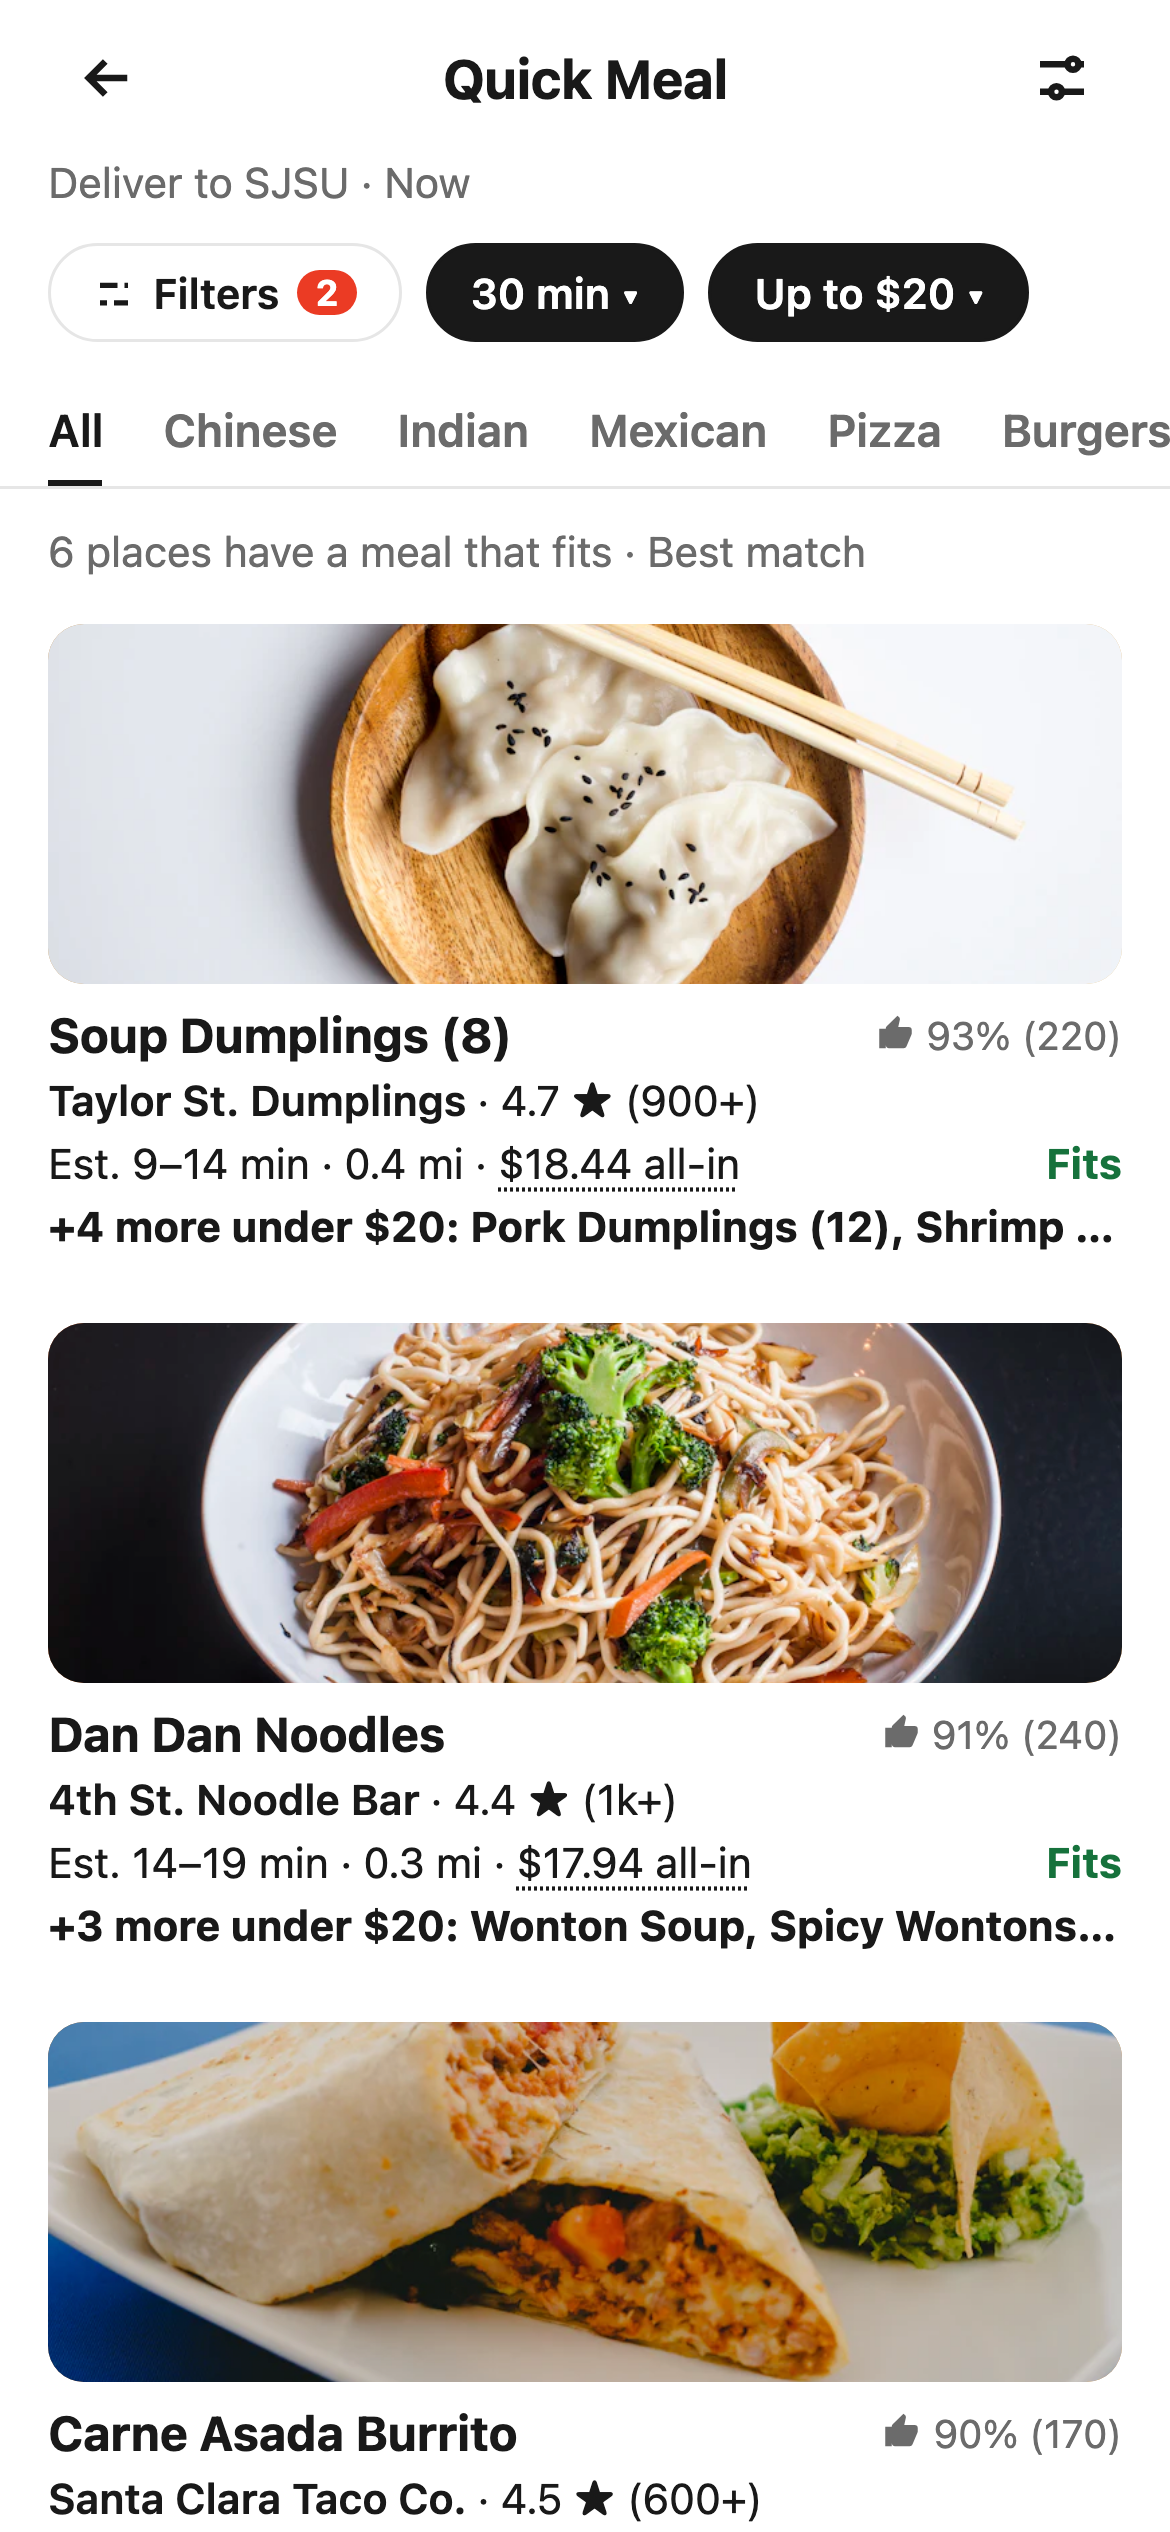
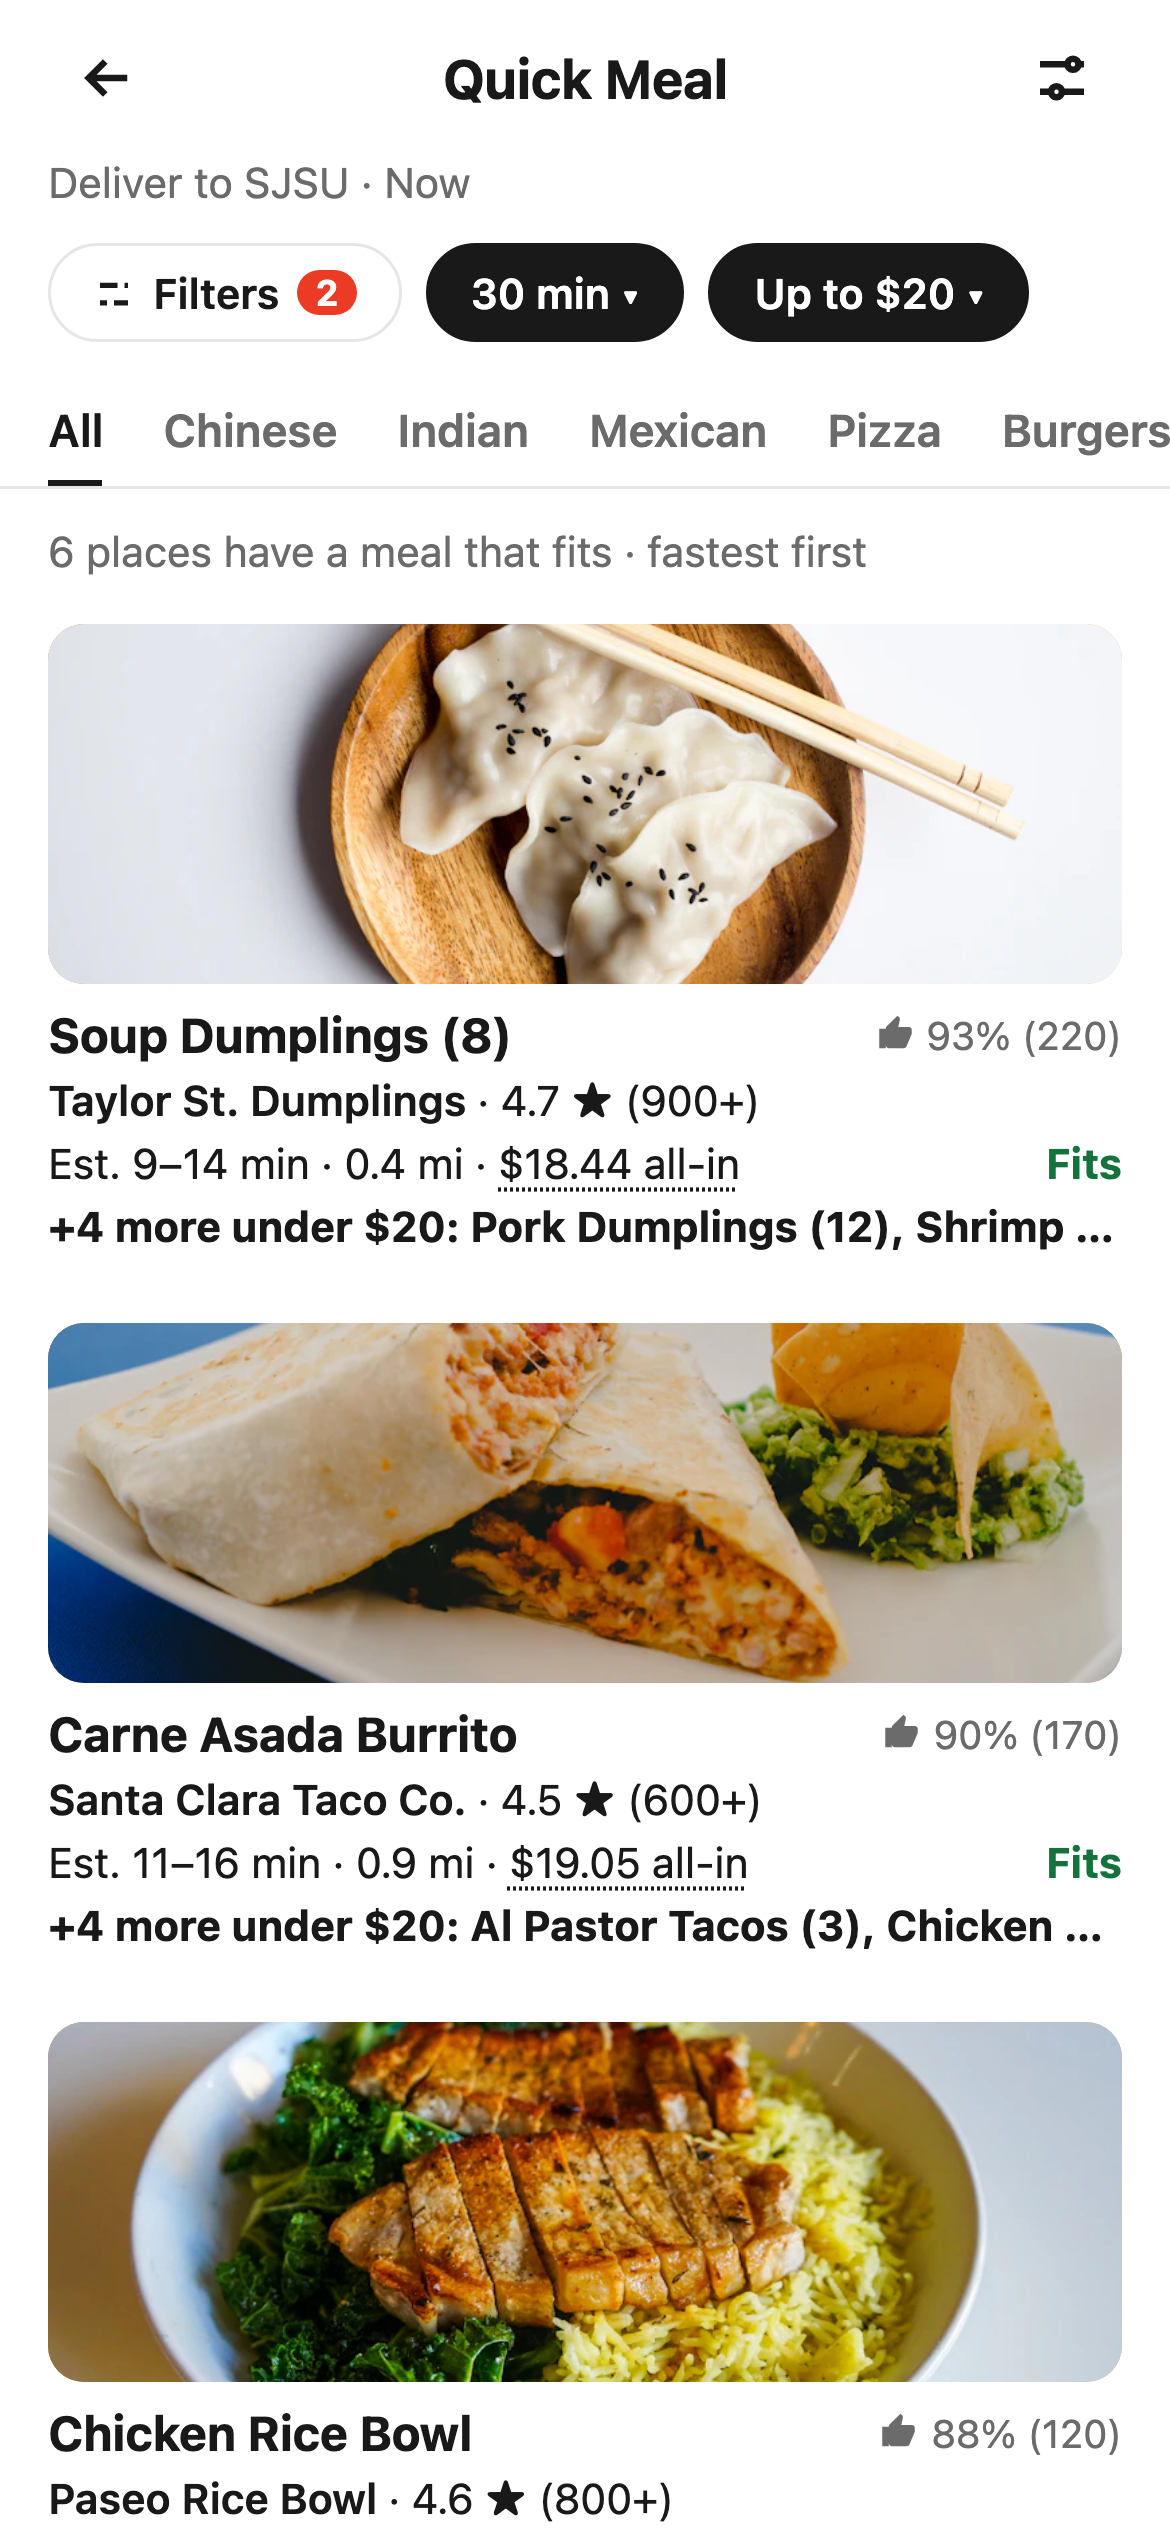
Record the validation run for the v35 deploy
Deployed commit 95ba02f and its Worker version, new AC-04, AC-05 and
AC-09 text, 36 e2e tests passing on the live URL, retaken screenshots
with a new pickup shot, and walkthrough note 8 for the second team review.

diff --git a/docs/validation.md b/docs/validation.md
@@ -1,9 +1,9 @@
 # Validation
 
-- Date: 2026-09-30
+- Date: 2026-10-02
 - Live URL: https://quick-meal-demo.ioenv.workers.dev
-- Deployed commit: `0cdc1bc`
-- Worker version: `53fc29b1-f2f5-4ec6-873f-ca2f2ecfd268`
+- Deployed commit: `95ba02f`
+- Worker version: `f131aae3-bf70-4362-b60c-fb1f1f4a23b1`
 
 Every acceptance criterion from the "Validation" section of [design.html](design.html) was run as an automated Playwright test against the live URL.
 
@@ -14,17 +14,20 @@ Every acceptance criterion from the "Validation" section of [design.html](design
 | AC-01 | **Quick Meal entry.** Given the Home screen, when the user taps Quick Meal in the category row, then the Quick Meal screen opens with the chip row (Filters, Time, Budget), the cuisine tabs below it (All selected) and a list of meal cards, with no Restaurant or Grocery tabs. | Pass | `e2e/list.spec.ts`: "AC-01: Home opens Quick Meal with chips, tabs and meal cards" |
 | AC-02 | **All-in budget.** Given a budget of $20, when results load, then every card shows a meal with an estimated all-in price of $20.00 or less, and the breakdown behind any price (item, delivery fee, small-order fee, service fee, tax, tip) adds up to that price to the cent, and the small-order fee appears only when the item costs less than $12. | Pass | `e2e/list.spec.ts`: "AC-02: every price fits the budget and each breakdown adds up" |
 | AC-03 | **Filters sheet.** Given the Filters sheet, opened from either the top-right icon or the Filters chip, when the user sets the time to 30 min and the budget to $20, then the time group comes first and asks "How much time do you have?", the button reads "Show results", and after applying the list shows 6 meal cards from 6 different places, the chips read "30 min" and "Up to $20", and the Filters badge shows 2. | Pass | `e2e/filters.spec.ts`: "AC-03: the Filters sheet opens from the chip and the top-right icon" |
-| AC-04 | **Combined filters.** Given budget $20, time 20 min and distance 1 mi are on, when the user taps the Chinese tab, then every card is a Chinese place that passes all three filters, and the count (2) is lower than on the All tab (4). | Pass | `e2e/list.spec.ts`: "AC-04: a cuisine tab splits the filtered meals and keeps the chips" |
-| AC-05 | **No match and relax.** Given budget $15, time 15 min and distance 0.5 mi, when results load, then the screen shows "No exact matches", up to 5 closest meals each labeled with how it misses (for example "$1.32 over budget"), and relax chips with result counts. When the user taps "Budget up to $17 · 1 result", the list shows exactly 1 meal and the slider moves to $17, while the saved default budget stays at $15. | Pass | `e2e/no-match.spec.ts`: "AC-05: no exact match shows the message, relax chips and near cards", "a relax chip loosens the view" and "a relax chip does not change the saved default" |
+| AC-04 | **Combined filters.** Given budget $20 and time 20 min are on, when the user taps the Chinese tab, then every card is a Chinese place that passes both filters, and the count (2) is lower than on the All tab (4). | Pass | `e2e/list.spec.ts`: "AC-04: a cuisine tab splits the filtered meals and keeps the chips" |
+| AC-05 | **No match and relax.** Given budget $15 and time 15 min, when results load, then the screen shows "No exact matches", up to 5 closest meals each labeled with how it misses (for example "1 min slower" or "$1.32 over budget"), and relax chips with result counts. When the user taps "Budget up to $17 · 1 result", the list shows exactly 1 meal and the slider moves to $17, while the saved default budget stays at $15. | Pass | `e2e/no-match.spec.ts`: "AC-05: no exact match shows the message, relax chips and near cards", "a relax chip loosens the view" and "a relax chip does not change the saved default" |
 | AC-06 | **Menu in budget view.** Given a budget of $20, when the user taps "+2 more" on the Paseo Rice Bowl card, then the menu opens with "Under your budget (3)" listing the Chicken Rice Bowl first (the card's meal), then the Tofu Rice Bowl and Spam Musubi Plate, and the Veggie Bowl shows "$0.54 over". | Pass | `e2e/menu.spec.ts`: "AC-06: the menu shows what fits first, then what is just over" |
 | AC-07 | **Saved default.** Given the user applied budget $20 and time 30 min and is on the Chinese tab, when they leave Quick Meal and come back, including after closing the browser tab, then budget $20 and time 30 min are on, the All tab is selected, and the 6 meal cards for $20 · 30 min show. | Pass | `e2e/filters.spec.ts`: "AC-07: applied filters come back next visit, the cuisine tab does not" |
 | AC-08 | **Estimated times.** Given time 30 min and budget $20, when results load, then every card shows one line like "Est. 9–14 min · 0.4 mi · $18.44 all-in", with the time as a range before the distance and price, the slow end of every range is 30 min or less, neither the time nor the price is bold, and the time group in the Filters sheet says "Not guaranteed." | Pass | `e2e/list.spec.ts`: "AC-08: times are estimated ranges" |
+| AC-09 | **Delivery or pickup.** Given budget $20 and time 30 min, when the user opens the Filters sheet and taps Pickup, then the time steps are replaced by 0.5 · 1 · 2 · 3 mi with none picked, and there is no "For pickup" text. When the user picks 1 mi and taps "Show results", the chip reads "Pickup · 1 mi", the URL has `distance=1` and no `time`, the Filters badge shows 2, the sort is Nearest, and the list shows 7 meal cards. Every card shows a line like "0.4 mi · Est. $16.74 all-in" with no time, and the Paseo Rice Bowl price breakdown has no delivery fee line and adds up to $16.74. | Pass | `e2e/filters.spec.ts`: "AC-09: Pickup swaps time for distance and drops the delivery fee" |
 
 First deploy (`96522f6`): we ran the full suite three times. The first run started seconds after the deploy and had 6 failures (the first API call got a 404), most likely because the new Worker had not yet reached every edge location. Runs 2 and 3, a minute later, both passed 24 of 24.
 
 After the real-phone walkthrough fixes, the Home Screen install and the white Home (`67ee67f`): 29 tests ran against the live URL and all passed.
 
 After the time-first change (`0cdc1bc`): 30 tests ran against the live URL and all passed, including AC-08. The 5 screenshot tests are skipped in a normal run.
+
+After design version 35 (`95ba02f`: Delivery | Pickup, pickup prices without the delivery fee, visible sorts): 36 tests ran against the live URL and all passed, including the new AC-09. The 6 screenshot tests are skipped in a normal run; they were then run on purpose and all 6 shots were saved.
 
 ## How to re-run
 
@@ -54,15 +57,19 @@ All shots are 390x844 at 3x, taken from the live URL.
 
 **3. Filters sheet.** Must-have feature: Filters sheet. Also saved default (applying saves the filters).
 
-![Filters sheet with time first, then distance, budget and sort](screenshots/3-filters.png)
+![Filters sheet with the Delivery | Pickup switch, time steps, budget and sort](screenshots/3-filters.png)
 
-**4. No match at $15, 15 min and 0.5 mi.** Must-have feature: no-match results with relax chips.
+**4. No match at $15 and 15 min.** Must-have feature: no-match results with relax chips.
 
 ![No exact matches with relax chips and the closest meals](screenshots/4-no-match.png)
 
 **5. Paseo Rice Bowl menu at $20 with the Tofu Rice Bowl breakdown.** Must-have features: menu in budget view and price breakdown.
 
 ![Paseo Rice Bowl menu with the price breakdown open](screenshots/5-menu-breakdown.png)
+
+**6. Pickup within 1 mi at $20.** Must-have feature: Filters sheet with the Delivery | Pickup switch (AC-09). Cards show the distance and no time, and prices have no delivery fee.
+
+![Quick Meal list in Pickup with 7 meals, nearest first](screenshots/6-pickup.png)
 
 ## Manual walkthrough
 
@@ -75,3 +82,4 @@ The PM walked through the live demo on a real phone after all the tests passed. 
 5. The live count on the sheet ("Show N results") could be out of date on a slow network. It was removed. The button says "Show results" and the search runs only on apply ([#36](https://github.com/githonllc/quick-meal-demo/issues/36)). The design page was updated to match ([#37](https://github.com/githonllc/quick-meal-demo/issues/37)).
 6. Installed on an iPhone Home Screen ([#42](https://github.com/githonllc/quick-meal-demo/issues/42)), the white status bar faded into Home's red header. Home is now white like the current DoorDash app ([#44](https://github.com/githonllc/quick-meal-demo/issues/44)). Still to check by hand on an iPhone and an Android phone.
 7. The team reviewed the demo against our concept slides and worksheet. The design still said "Budget-First Ordering", an outdated name, and mixed up decision time with delivery time. Now time comes first, every time is an estimated range, nothing on the card is bold, and distance is in the Filters sheet for pickup ([#47](https://github.com/githonllc/quick-meal-demo/issues/47)). Whether students read "How much time do you have?" as order-to-door time is left for a later user study.
+8. A second team review (design version 35): time and distance answer one question, so they became one Delivery | Pickup switch. Pickup cards show no time and their price has no delivery fee. "Best match" was removed because no one could see how it ranked. Times stay in minutes, because a clock time would slip while the student browses before ordering. Ranking by personal taste needs a user profile, so it is out of the demo's scope. The page has no subtitle, to match DoorDash; a first-visit hint explains Quick Meal instead.
